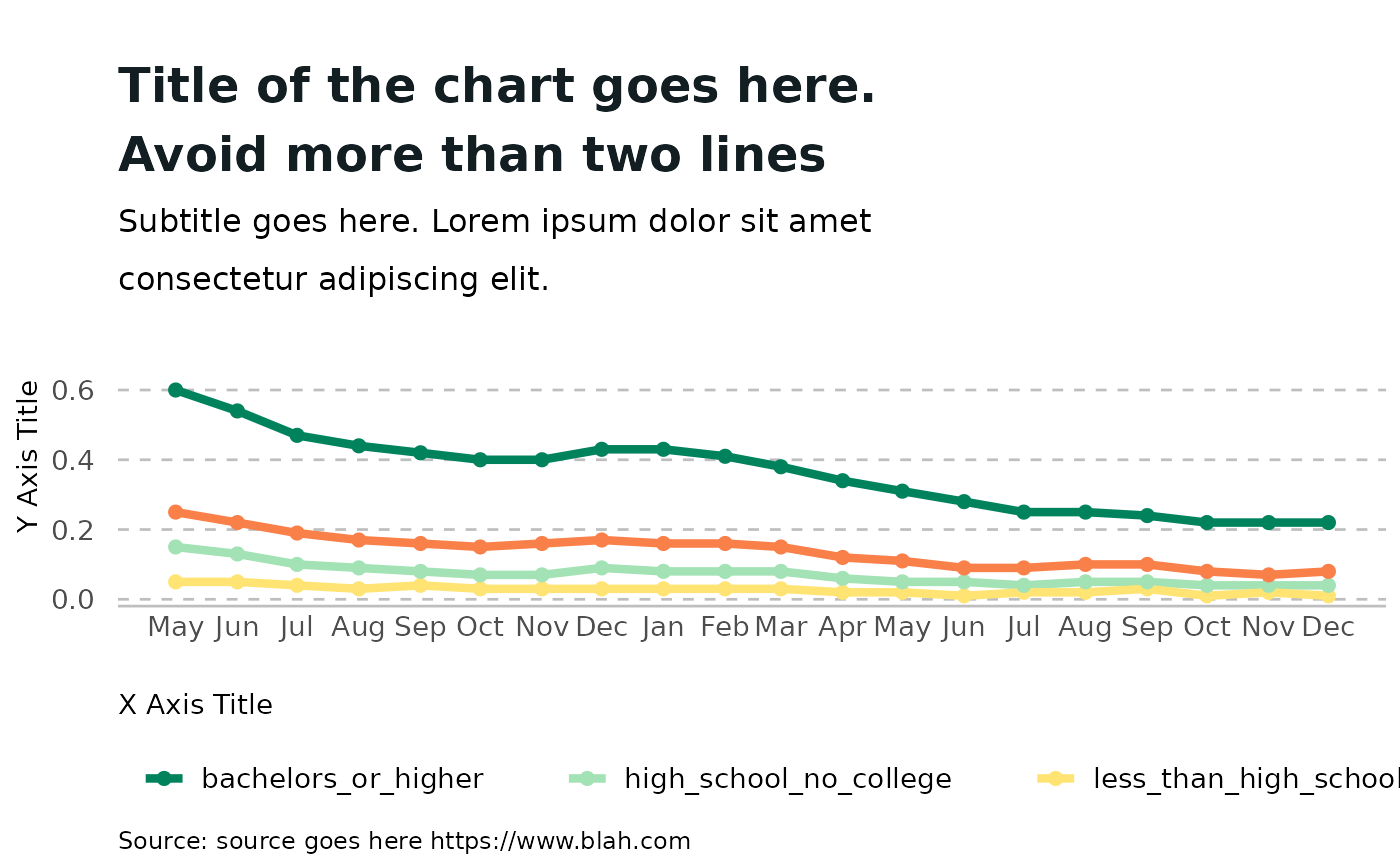
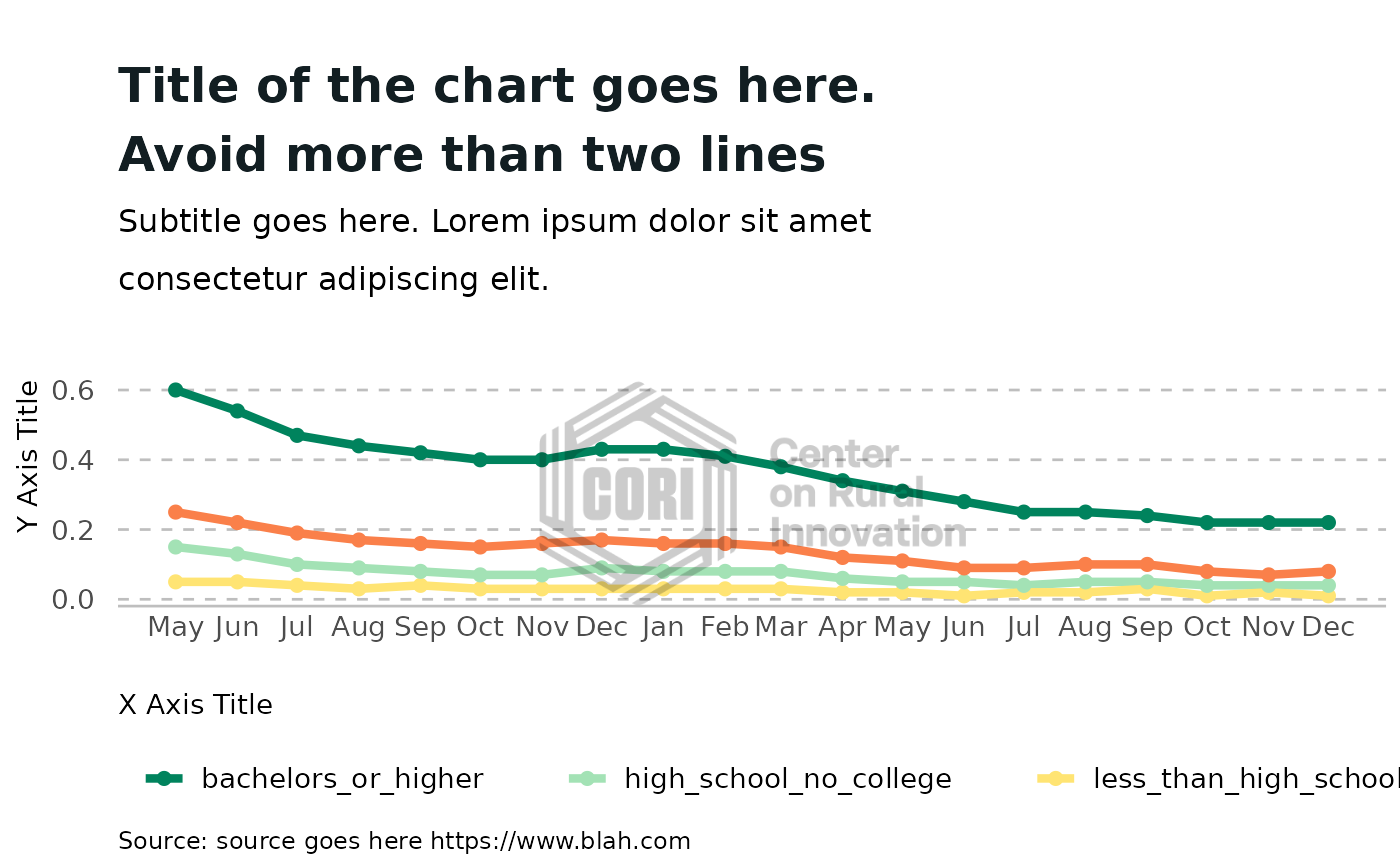
Built site for coriplot: 0.0.0.9000@28e02b3

Changed region(s): [[0.3686, 0.437, 0.7064, 0.6867]]

diff --git a/index.html b/index.html
@@ -80,20 +80,20 @@
 <p>This is a basic example which shows you how to solve a common problem: Dashanh’s workspace</p>
 <div class="sourceCode" id="cb2"><pre class="downlit sourceCode r">
 <code class="sourceCode R"><span class="kw"><a href="https://rdrr.io/r/base/library.html" class="external-link">library</a></span><span class="op">(</span><span class="va"><a href="https://ggplot2.tidyverse.org" class="external-link">ggplot2</a></span><span class="op">)</span>
-<span class="kw"><a href="https://rdrr.io/r/base/library.html" class="external-link">library</a></span><span class="op">(</span><span class="va"><a href="https://tidyverse.tidyverse.org" class="external-link">tidyverse</a></span><span class="op">)</span>
-<span class="co">#&gt; ── Attaching packages ─────────────────────────────────────── tidyverse 1.3.1 ──</span>
-<span class="co">#&gt; ✓ tibble  3.1.6     ✓ dplyr   1.0.8</span>
-<span class="co">#&gt; ✓ tidyr   1.2.0     ✓ stringr 1.4.0</span>
-<span class="co">#&gt; ✓ readr   2.1.2     ✓ forcats 0.5.1</span>
-<span class="co">#&gt; ✓ purrr   0.3.4</span>
-<span class="co">#&gt; ── Conflicts ────────────────────────────────────────── tidyverse_conflicts() ──</span>
-<span class="co">#&gt; x dplyr::filter() masks stats::filter()</span>
-<span class="co">#&gt; x dplyr::lag()    masks stats::lag()</span>
+<span class="kw"><a href="https://rdrr.io/r/base/library.html" class="external-link">library</a></span><span class="op">(</span><span class="va"><a href="https://dplyr.tidyverse.org" class="external-link">dplyr</a></span><span class="op">)</span>
+<span class="co">#&gt; </span>
+<span class="co">#&gt; Attaching package: 'dplyr'</span>
+<span class="co">#&gt; The following objects are masked from 'package:stats':</span>
+<span class="co">#&gt; </span>
+<span class="co">#&gt;     filter, lag</span>
+<span class="co">#&gt; The following objects are masked from 'package:base':</span>
+<span class="co">#&gt; </span>
+<span class="co">#&gt;     intersect, setdiff, setequal, union</span>
 <span class="kw"><a href="https://rdrr.io/r/base/library.html" class="external-link">library</a></span><span class="op">(</span><span class="va"><a href="https://github.com/Dashansh/coriplot" class="external-link">coriplot</a></span><span class="op">)</span>
 
 <span class="fu"><a href="https://ggplot2.tidyverse.org/reference/theme_get.html" class="external-link">theme_set</a></span><span class="op">(</span><span class="fu"><a href="reference/theme_cori.html">theme_cori</a></span><span class="op">(</span><span class="op">)</span><span class="op">)</span>
 <span class="fu"><a href="https://rdrr.io/r/utils/data.html" class="external-link">data</a></span><span class="op">(</span><span class="st">"remote_work_by_ed_level"</span><span class="op">)</span>
-<span class="va">fig</span> <span class="op">&lt;-</span> <span class="va">remote_work_by_ed_level</span> <span class="op">%&gt;%</span>
+<span class="va">fig</span> <span class="op">&lt;-</span> <span class="va">remote_work_by_ed_level</span> <span class="op"><a href="https://magrittr.tidyverse.org/reference/pipe.html" class="external-link">%&gt;%</a></span>
   <span class="fu"><a href="https://ggplot2.tidyverse.org/reference/ggplot.html" class="external-link">ggplot</a></span><span class="op">(</span><span class="fu"><a href="https://ggplot2.tidyverse.org/reference/aes.html" class="external-link">aes</a></span><span class="op">(</span><span class="fu"><a href="https://rdrr.io/r/base/as.Date.html" class="external-link">as.Date</a></span><span class="op">(</span><span class="va">date</span><span class="op">)</span>,
              <span class="va">pct_working_remotely</span>,
              group <span class="op">=</span> <span class="va">education_level</span>,
@@ -104,7 +104,7 @@
   <span class="fu"><a href="https://ggplot2.tidyverse.org/reference/labs.html" class="external-link">labs</a></span><span class="op">(</span>title <span class="op">=</span> <span class="st">"This should not exceed\nMore than two lines"</span>,
        subtitle <span class="op">=</span> <span class="st">"Some random subtitle"</span>,
        caption <span class="op">=</span> <span class="st">"This image is not mine"</span><span class="op">)</span> <span class="op">+</span>
-  <span class="fu"><a href="https://ggplot2.tidyverse.org/reference/scale_date.html" class="external-link">scale_x_date</a></span><span class="op">(</span>date_breaks <span class="op">=</span> <span class="st">"1 month"</span>, date_labels <span class="op">=</span>  <span class="st">"%b %Y"</span><span class="op">)</span> <span class="op">+</span> 
+  <span class="fu"><a href="https://ggplot2.tidyverse.org/reference/scale_date.html" class="external-link">scale_x_date</a></span><span class="op">(</span>date_breaks <span class="op">=</span> <span class="st">"1 month"</span>, date_labels <span class="op">=</span>  <span class="st">"%b"</span><span class="op">)</span> <span class="op">+</span> 
   <span class="fu"><a href="https://ggplot2.tidyverse.org/reference/scale_continuous.html" class="external-link">scale_y_continuous</a></span><span class="op">(</span>expand <span class="op">=</span> <span class="fu"><a href="https://rdrr.io/r/base/c.html" class="external-link">c</a></span><span class="op">(</span><span class="fl">0</span>, <span class="fl">0</span><span class="op">)</span>, limits <span class="op">=</span> <span class="fu"><a href="https://rdrr.io/r/base/c.html" class="external-link">c</a></span><span class="op">(</span><span class="fl">0</span>,<span class="cn">NA</span><span class="op">)</span><span class="op">)</span> <span class="op">+</span>
   <span class="fu"><a href="reference/theme_cori.html">theme_cori</a></span><span class="op">(</span><span class="op">)</span><span class="op">+</span>
   <span class="fu"><a href="reference/scale_x_percent.html">scale_y_percent</a></span><span class="op">(</span><span class="op">)</span>
@@ -113,71 +113,6 @@
 
 <span class="va">fig</span></code></pre></div>
 <p><img src="reference/figures/README-example1-1.png" width="100%"></p>
-<p>abhishek’s workspace</p>
-<div class="sourceCode" id="cb3"><pre class="downlit sourceCode r">
-<code class="sourceCode R"><span class="va">fig</span> <span class="op">&lt;-</span> <span class="va">remote_work_by_ed_level</span> <span class="op">%&gt;%</span>
-  <span class="fu"><a href="https://ggplot2.tidyverse.org/reference/ggplot.html" class="external-link">ggplot</a></span><span class="op">(</span><span class="fu"><a href="https://ggplot2.tidyverse.org/reference/aes.html" class="external-link">aes</a></span><span class="op">(</span><span class="fu"><a href="https://rdrr.io/r/base/as.Date.html" class="external-link">as.Date</a></span><span class="op">(</span><span class="va">date</span><span class="op">)</span>, <span class="va">pct_working_remotely</span>, group <span class="op">=</span> <span class="va">education_level</span>, color <span class="op">=</span> <span class="va">education_level</span><span class="op">)</span><span class="op">)</span> <span class="op">+</span>
-  <span class="fu"><a href="https://ggplot2.tidyverse.org/reference/geom_path.html" class="external-link">geom_line</a></span><span class="op">(</span>lwd <span class="op">=</span> <span class="fl">1.5</span><span class="op">)</span> <span class="op">+</span>
-  <span class="fu"><a href="https://ggplot2.tidyverse.org/reference/labs.html" class="external-link">xlab</a></span><span class="op">(</span><span class="st">""</span><span class="op">)</span> <span class="op">+</span>
-  <span class="fu"><a href="https://ggplot2.tidyverse.org/reference/scale_date.html" class="external-link">scale_x_date</a></span><span class="op">(</span>date_breaks <span class="op">=</span> <span class="st">"1 month"</span>, date_labels <span class="op">=</span>  <span class="st">"%b"</span><span class="op">)</span> <span class="op">+</span> 
-  <span class="fu"><a href="https://ggplot2.tidyverse.org/reference/scale_continuous.html" class="external-link">scale_y_continuous</a></span><span class="op">(</span>expand <span class="op">=</span> <span class="fu"><a href="https://rdrr.io/r/base/c.html" class="external-link">c</a></span><span class="op">(</span><span class="fl">0</span>, <span class="fl">0</span><span class="op">)</span><span class="op">)</span> <span class="op">+</span>
-  <span class="fu"><a href="https://ggplot2.tidyverse.org/reference/geom_point.html" class="external-link">geom_point</a></span><span class="op">(</span>size <span class="op">=</span> <span class="fl">2</span><span class="op">)</span><span class="op">+</span>
-  <span class="fu"><a href="https://ggplot2.tidyverse.org/reference/labs.html" class="external-link">ggtitle</a></span><span class="op">(</span><span class="st">"Line Chart - straight lines"</span><span class="op">)</span> <span class="op">+</span>
-  <span class="fu"><a href="https://ggplot2.tidyverse.org/reference/labs.html" class="external-link">labs</a></span><span class="op">(</span>subtitle <span class="op">=</span> <span class="st">"Multiple Colors"</span><span class="op">)</span><span class="op">+</span>
-  <span class="fu"><a href="reference/scale_color_cori.html">scale_color_cori</a></span><span class="op">(</span><span class="op">)</span> 
-
-<span class="fu">flush_ticks</span><span class="op">(</span><span class="va">fig</span><span class="op">)</span><span class="co">#fig </span>
-<span class="co">#&gt; theme(axis.text.x=element_text(hjust=c(0, rep(0.5, 18), 1))) +</span>
-<span class="co">#&gt; theme(axis.text.y=element_text(vjust=c(0, rep(0.5, 3), 1)))</span></code></pre></div>
-<p><img src="reference/figures/README-example2-1.png" width="100%"></p>
-<div class="sourceCode" id="cb4"><pre class="downlit sourceCode r">
-<code class="sourceCode R"><span class="va">twoColDf</span><span class="op">&lt;-</span><span class="va">time_series_sample_data</span><span class="op">[</span>,<span class="fu"><a href="https://rdrr.io/r/base/c.html" class="external-link">c</a></span><span class="op">(</span><span class="st">"date"</span>,<span class="st">"less_than_high_school"</span>,<span class="st">"high_school_no_college"</span><span class="op">)</span><span class="op">]</span>
-<span class="fu"><a href="https://rdrr.io/r/base/colnames.html" class="external-link">colnames</a></span><span class="op">(</span><span class="va">twoColDf</span><span class="op">)</span><span class="op">&lt;-</span><span class="fu"><a href="https://rdrr.io/r/base/c.html" class="external-link">c</a></span><span class="op">(</span><span class="st">"date"</span>,<span class="st">"urban"</span>,<span class="st">"rural"</span><span class="op">)</span>
-<span class="va">df2col</span><span class="op">&lt;-</span> <span class="fu">tidyr</span><span class="fu">::</span><span class="fu"><a href="https://tidyr.tidyverse.org/reference/pivot_longer.html" class="external-link">pivot_longer</a></span><span class="op">(</span>
-  <span class="va">twoColDf</span>,
-  cols <span class="op">=</span> <span class="op">!</span><span class="va">date</span>,
-  names_to <span class="op">=</span> <span class="st">"education_level"</span>,
-  values_to <span class="op">=</span> <span class="st">"pct_working_remotely"</span>
-<span class="op">)</span>
-
-<span class="va">fig</span> <span class="op">&lt;-</span> <span class="va">df2col</span> <span class="op">%&gt;%</span>
-  <span class="fu"><a href="https://ggplot2.tidyverse.org/reference/ggplot.html" class="external-link">ggplot</a></span><span class="op">(</span><span class="fu"><a href="https://ggplot2.tidyverse.org/reference/aes.html" class="external-link">aes</a></span><span class="op">(</span><span class="fu"><a href="https://rdrr.io/r/base/as.Date.html" class="external-link">as.Date</a></span><span class="op">(</span><span class="va">date</span><span class="op">)</span>, <span class="va">pct_working_remotely</span>, group <span class="op">=</span> <span class="va">education_level</span>, color <span class="op">=</span> <span class="va">education_level</span><span class="op">)</span><span class="op">)</span> <span class="op">+</span>
-  <span class="fu"><a href="https://ggplot2.tidyverse.org/reference/geom_path.html" class="external-link">geom_line</a></span><span class="op">(</span>lwd <span class="op">=</span> <span class="fl">1.5</span><span class="op">)</span> <span class="op">+</span>
-  <span class="fu"><a href="https://ggplot2.tidyverse.org/reference/labs.html" class="external-link">xlab</a></span><span class="op">(</span><span class="st">""</span><span class="op">)</span> <span class="op">+</span>
-  <span class="fu"><a href="https://ggplot2.tidyverse.org/reference/scale_date.html" class="external-link">scale_x_date</a></span><span class="op">(</span>date_breaks <span class="op">=</span> <span class="st">"1 month"</span>, date_labels <span class="op">=</span>  <span class="st">"%b"</span><span class="op">)</span> <span class="op">+</span> 
-  <span class="fu"><a href="https://ggplot2.tidyverse.org/reference/scale_continuous.html" class="external-link">scale_y_continuous</a></span><span class="op">(</span>expand <span class="op">=</span> <span class="fu"><a href="https://rdrr.io/r/base/c.html" class="external-link">c</a></span><span class="op">(</span><span class="fl">0</span>, <span class="fl">0</span><span class="op">)</span><span class="op">)</span> <span class="op">+</span>
-  <span class="fu"><a href="https://ggplot2.tidyverse.org/reference/geom_point.html" class="external-link">geom_point</a></span><span class="op">(</span>size <span class="op">=</span> <span class="fl">2</span><span class="op">)</span><span class="op">+</span>
-  <span class="fu"><a href="https://ggplot2.tidyverse.org/reference/labs.html" class="external-link">ggtitle</a></span><span class="op">(</span><span class="st">"Line Chart - straight lines"</span><span class="op">)</span> <span class="op">+</span>
-  <span class="fu"><a href="https://ggplot2.tidyverse.org/reference/labs.html" class="external-link">labs</a></span><span class="op">(</span>subtitle <span class="op">=</span> <span class="st">"Only 2 Columns"</span><span class="op">)</span><span class="op">+</span>
-  <span class="fu"><a href="https://ggplot2.tidyverse.org/reference/labs.html" class="external-link">ylab</a></span><span class="op">(</span><span class="st">"Percentage Working Remotely"</span><span class="op">)</span><span class="op">+</span>
-  <span class="fu"><a href="reference/scale_color_cori.html">scale_color_cori</a></span><span class="op">(</span><span class="va">cori_primary</span><span class="op">)</span> 
-<span class="va">fig</span> </code></pre></div>
-<p><img src="reference/figures/README-example3-1.png" width="100%"></p>
-<p>This is a basic example which shows you how to make curved lines:</p>
-<div class="sourceCode" id="cb5"><pre class="downlit sourceCode r">
-<code class="sourceCode R"><span class="kw"><a href="https://rdrr.io/r/base/library.html" class="external-link">library</a></span><span class="op">(</span><span class="va"><a href="https://ggplot2.tidyverse.org" class="external-link">ggplot2</a></span><span class="op">)</span>
-<span class="kw"><a href="https://rdrr.io/r/base/library.html" class="external-link">library</a></span><span class="op">(</span><span class="va"><a href="https://tidyverse.tidyverse.org" class="external-link">tidyverse</a></span><span class="op">)</span>
-
-<span class="va">fig</span> <span class="op">&lt;-</span> <span class="va">remote_work_by_ed_level</span><span class="op">[</span><span class="fl">1</span><span class="op">:</span><span class="fl">20</span>,<span class="op">]</span> <span class="op">%&gt;%</span>
-  <span class="fu"><a href="https://ggplot2.tidyverse.org/reference/ggplot.html" class="external-link">ggplot</a></span><span class="op">(</span><span class="fu"><a href="https://ggplot2.tidyverse.org/reference/aes.html" class="external-link">aes</a></span><span class="op">(</span><span class="fu"><a href="https://rdrr.io/r/base/as.Date.html" class="external-link">as.Date</a></span><span class="op">(</span><span class="va">date</span><span class="op">)</span>,
-             <span class="va">pct_working_remotely</span>,
-             group <span class="op">=</span> <span class="va">education_level</span>,
-             color <span class="op">=</span> <span class="va">education_level</span><span class="op">)</span><span class="op">)</span> <span class="op">+</span>
-  <span class="fu"><a href="https://ggplot2.tidyverse.org/reference/geom_smooth.html" class="external-link">geom_smooth</a></span><span class="op">(</span>method <span class="op">=</span> <span class="st">'loess'</span>,
-              linetype <span class="op">=</span> <span class="fl">1</span>,
-              size <span class="op">=</span> <span class="fl">1</span>,
-              lwd <span class="op">=</span> <span class="fl">1.5</span>,
-              se<span class="op">=</span> <span class="cn">FALSE</span><span class="op">)</span> <span class="op">+</span>
-  <span class="fu"><a href="https://ggplot2.tidyverse.org/reference/labs.html" class="external-link">xlab</a></span><span class="op">(</span><span class="st">""</span><span class="op">)</span> <span class="op">+</span>
-  <span class="fu"><a href="https://ggplot2.tidyverse.org/reference/scale_date.html" class="external-link">scale_x_date</a></span><span class="op">(</span>date_breaks <span class="op">=</span> <span class="st">"1 month"</span>, date_labels <span class="op">=</span>  <span class="st">"%b"</span><span class="op">)</span> <span class="op">+</span> 
-  <span class="fu"><a href="https://ggplot2.tidyverse.org/reference/scale_continuous.html" class="external-link">scale_y_continuous</a></span><span class="op">(</span>expand <span class="op">=</span> <span class="fu"><a href="https://rdrr.io/r/base/c.html" class="external-link">c</a></span><span class="op">(</span><span class="fl">0</span>, <span class="fl">0</span><span class="op">)</span><span class="op">)</span> <span class="op">+</span>
-  <span class="fu"><a href="https://ggplot2.tidyverse.org/reference/geom_point.html" class="external-link">geom_point</a></span><span class="op">(</span>size <span class="op">=</span> <span class="fl">2</span><span class="op">)</span><span class="op">+</span>
-  <span class="fu"><a href="https://ggplot2.tidyverse.org/reference/labs.html" class="external-link">ggtitle</a></span><span class="op">(</span><span class="st">"Line Chart - Curved lines"</span><span class="op">)</span><span class="op">+</span>
-  <span class="fu"><a href="https://ggplot2.tidyverse.org/reference/labs.html" class="external-link">labs</a></span><span class="op">(</span>subtitle <span class="op">=</span> <span class="st">"Multiple Colors"</span><span class="op">)</span><span class="op">+</span>
-  <span class="fu"><a href="reference/scale_color_cori.html">scale_color_cori</a></span><span class="op">(</span><span class="va">cori_primary</span><span class="op">)</span> 
-<span class="va">fig</span> 
-<span class="co">#&gt; `geom_smooth()` using formula 'y ~ x'</span></code></pre></div>
-<p><img src="reference/figures/README-example4-1.png" width="100%"></p>
 </div>
 </div>
   </main><aside class="col-md-3"><div class="links">

diff --git a/reference/watermark.html b/reference/watermark.html
@@ -1,0 +1,85 @@
+<!DOCTYPE html>
+<!-- Generated by pkgdown: do not edit by hand --><html lang="en"><head><meta http-equiv="Content-Type" content="text/html; charset=UTF-8"><meta charset="utf-8"><meta http-equiv="X-UA-Compatible" content="IE=edge"><meta name="viewport" content="width=device-width, initial-scale=1, shrink-to-fit=no"><meta name="description" content="This is a description"><title>Watermark
+Cori color scales — watermark • coriplot</title><script src="../deps/jquery-3.6.0/jquery-3.6.0.min.js"></script><meta name="viewport" content="width=device-width, initial-scale=1, shrink-to-fit=no"><link href="../deps/bootstrap-5.1.0/bootstrap.min.css" rel="stylesheet"><script src="../deps/bootstrap-5.1.0/bootstrap.bundle.min.js"></script><!-- Font Awesome icons --><link rel="stylesheet" href="https://cdnjs.cloudflare.com/ajax/libs/font-awesome/5.12.1/css/all.min.css" integrity="sha256-mmgLkCYLUQbXn0B1SRqzHar6dCnv9oZFPEC1g1cwlkk=" crossorigin="anonymous"><link rel="stylesheet" href="https://cdnjs.cloudflare.com/ajax/libs/font-awesome/5.12.1/css/v4-shims.min.css" integrity="sha256-wZjR52fzng1pJHwx4aV2AO3yyTOXrcDW7jBpJtTwVxw=" crossorigin="anonymous"><!-- bootstrap-toc --><script src="https://cdn.rawgit.com/afeld/bootstrap-toc/v1.0.1/dist/bootstrap-toc.min.js"></script><!-- headroom.js --><script src="https://cdnjs.cloudflare.com/ajax/libs/headroom/0.11.0/headroom.min.js" integrity="sha256-AsUX4SJE1+yuDu5+mAVzJbuYNPHj/WroHuZ8Ir/CkE0=" crossorigin="anonymous"></script><script src="https://cdnjs.cloudflare.com/ajax/libs/headroom/0.11.0/jQuery.headroom.min.js" integrity="sha256-ZX/yNShbjqsohH1k95liqY9Gd8uOiE1S4vZc+9KQ1K4=" crossorigin="anonymous"></script><!-- clipboard.js --><script src="https://cdnjs.cloudflare.com/ajax/libs/clipboard.js/2.0.6/clipboard.min.js" integrity="sha256-inc5kl9MA1hkeYUt+EC3BhlIgyp/2jDIyBLS6k3UxPI=" crossorigin="anonymous"></script><!-- search --><script src="https://cdnjs.cloudflare.com/ajax/libs/fuse.js/6.4.6/fuse.js" integrity="sha512-zv6Ywkjyktsohkbp9bb45V6tEMoWhzFzXis+LrMehmJZZSys19Yxf1dopHx7WzIKxr5tK2dVcYmaCk2uqdjF4A==" crossorigin="anonymous"></script><script src="https://cdnjs.cloudflare.com/ajax/libs/autocomplete.js/0.38.0/autocomplete.jquery.min.js" integrity="sha512-GU9ayf+66Xx2TmpxqJpliWbT5PiGYxpaG8rfnBEk1LL8l1KGkRShhngwdXK1UgqhAzWpZHSiYPc09/NwDQIGyg==" crossorigin="anonymous"></script><script src="https://cdnjs.cloudflare.com/ajax/libs/mark.js/8.11.1/mark.min.js" integrity="sha512-5CYOlHXGh6QpOFA/TeTylKLWfB3ftPsde7AnmhuitiTX4K5SqCLBeKro6sPS8ilsz1Q4NRx3v8Ko2IBiszzdww==" crossorigin="anonymous"></script><!-- pkgdown --><script src="../pkgdown.js"></script><meta property="og:title" content="Watermark
+Cori color scales — watermark"><meta property="og:description" content="This is a description"><!-- mathjax --><script src="https://cdnjs.cloudflare.com/ajax/libs/mathjax/2.7.5/MathJax.js" integrity="sha256-nvJJv9wWKEm88qvoQl9ekL2J+k/RWIsaSScxxlsrv8k=" crossorigin="anonymous"></script><script src="https://cdnjs.cloudflare.com/ajax/libs/mathjax/2.7.5/config/TeX-AMS-MML_HTMLorMML.js" integrity="sha256-84DKXVJXs0/F8OTMzX4UR909+jtl4G7SPypPavF+GfA=" crossorigin="anonymous"></script><!--[if lt IE 9]>
+<script src="https://oss.maxcdn.com/html5shiv/3.7.3/html5shiv.min.js"></script>
+<script src="https://oss.maxcdn.com/respond/1.4.2/respond.min.js"></script>
+<![endif]--></head><body>
+    <a href="#main" class="visually-hidden-focusable">Skip to contents</a>
+    
+
+    <nav class="navbar fixed-top navbar-light navbar-expand-lg bg-light"><div class="container">
+    
+    <a class="navbar-brand me-2" href="../index.html">coriplot</a>
+
+    <small class="nav-text text-muted me-auto" data-bs-toggle="tooltip" data-bs-placement="bottom" title="">0.0.0.9000</small>
+
+    
+    <button class="navbar-toggler" type="button" data-bs-toggle="collapse" data-bs-target="#navbar" aria-controls="navbar" aria-expanded="false" aria-label="Toggle navigation">
+      <span class="navbar-toggler-icon"></span>
+    </button>
+
+    <div id="navbar" class="collapse navbar-collapse ms-3">
+      <ul class="navbar-nav me-auto"><li class="nav-item">
+  <a class="nav-link" href="../articles/coriplot.html">Get started</a>
+</li>
+<li class="active nav-item">
+  <a class="nav-link" href="../reference/index.html">Reference</a>
+</li>
+      </ul><form class="form-inline my-2 my-lg-0" role="search">
+        <input type="search" class="form-control me-sm-2" aria-label="Toggle navigation" name="search-input" data-search-index="../search.json" id="search-input" placeholder="Search for" autocomplete="off"></form>
+
+      <ul class="navbar-nav"><li class="nav-item">
+  <a class="external-link nav-link" href="https://github.com/Dashansh/coriplot/" aria-label="github">
+    <span class="fab fa fab fa-github fa-lg"></span>
+     
+  </a>
+</li>
+      </ul></div>
+
+    
+  </div>
+</nav><div class="container template-reference-topic">
+<div class="row">
+  <main id="main" class="col-md-9"><div class="page-header">
+      <img src="" class="logo" alt=""><h1>Watermark
+Cori color scales</h1>
+      <small class="dont-index">Source: <a href="https://github.com/Dashansh/coriplot/blob/HEAD/R/watermark.R" class="external-link"><code>R/watermark.R</code></a></small>
+      <div class="d-none name"><code>watermark.Rd</code></div>
+    </div>
+
+    <div class="ref-description section level2">
+    <p>This is a description</p>
+    </div>
+
+    <div class="section level2">
+    <h2 id="ref-usage">Usage<a class="anchor" aria-label="anchor" href="#ref-usage"></a></h2>
+    <div class="sourceCode"><pre class="sourceCode r"><code><span class="fu">watermark</span><span class="op">(</span>alpha <span class="op">=</span> <span class="fl">0.2</span><span class="op">)</span></code></pre></div>
+    </div>
+
+    <div class="section level2">
+    <h2 id="arguments">Arguments<a class="anchor" aria-label="anchor" href="#arguments"></a></h2>
+    <dl><dt>alpha</dt>
+<dd><p>Pass the opacity value for the watermark between 0 - 1 (Default: 0.5)</p></dd>
+</dl></div>
+
+  </main><aside class="col-md-3"><nav id="toc"><h2>On this page</h2>
+    </nav></aside></div>
+
+
+    <footer><div class="pkgdown-footer-left">
+  <p></p><p>Developed by Dashansh Prajapati.</p>
+</div>
+
+<div class="pkgdown-footer-right">
+  <p></p><p>Site built with <a href="https://pkgdown.r-lib.org/" class="external-link">pkgdown</a> 2.0.2.</p>
+</div>
+
+    </footer></div>
+
+  
+
+  
+
+  </body></html>
+

diff --git a/articles/coriplot.html b/articles/coriplot.html
@@ -108,10 +108,11 @@
     <span class="fu"><a href="https://ggplot2.tidyverse.org/reference/labs.html" class="external-link">xlab</a></span><span class="op">(</span><span class="st">"X Axis Title"</span><span class="op">)</span> <span class="op">+</span>
     <span class="fu"><a href="https://ggplot2.tidyverse.org/reference/labs.html" class="external-link">ylab</a></span><span class="op">(</span><span class="st">"Y Axis Title"</span><span class="op">)</span> <span class="op">+</span>
     <span class="fu"><a href="../reference/scale_color_cori.html">scale_color_cori</a></span><span class="op">(</span><span class="op">)</span> <span class="op">+</span>
-    <span class="fu"><a href="../reference/theme_cori.html">theme_cori</a></span><span class="op">(</span><span class="op">)</span> <span class="op">-&gt;</span> <span class="va">fig</span>
+    <span class="fu"><a href="../reference/theme_cori.html">theme_cori</a></span><span class="op">(</span><span class="op">)</span> <span class="op">+</span>
+    <span class="fu"><a href="../reference/watermark.html">watermark</a></span><span class="op">(</span><span class="op">)</span><span class="op">-&gt;</span> <span class="va">fig</span>
 
 <span class="va">fig</span></code></pre></div>
-<p><img src="coriplot_files/figure-html/example2-1.png" width="700"></p>
+<p><img src="coriplot_files/figure-html/example2-1.png" width="100%"></p>
 <div class="sourceCode" id="cb2"><pre class="downlit sourceCode r">
 <code class="sourceCode R"><span class="fu"><a href="https://rdrr.io/r/utils/data.html" class="external-link">data</a></span><span class="op">(</span><span class="st">"time_series_sample_data"</span><span class="op">)</span>
 <span class="va">twoColDf</span><span class="op">&lt;-</span><span class="va">time_series_sample_data</span><span class="op">[</span>,<span class="fu"><a href="https://rdrr.io/r/base/c.html" class="external-link">c</a></span><span class="op">(</span><span class="st">"date"</span>,<span class="st">"less_than_high_school"</span>,<span class="st">"high_school_no_college"</span><span class="op">)</span><span class="op">]</span>
@@ -135,7 +136,7 @@
   <span class="fu"><a href="https://ggplot2.tidyverse.org/reference/labs.html" class="external-link">ylab</a></span><span class="op">(</span><span class="st">"Percentage Working Remotely"</span><span class="op">)</span><span class="op">+</span>
   <span class="fu"><a href="../reference/scale_color_cori.html">scale_color_cori</a></span><span class="op">(</span><span class="va">cori_primary</span><span class="op">)</span> 
 <span class="va">fig</span> </code></pre></div>
-<p><img src="coriplot_files/figure-html/example3-1.png" width="700"></p>
+<p><img src="coriplot_files/figure-html/example3-1.png" width="100%"></p>
 <p>This is a basic example which shows you how to make curved lines:</p>
 <div class="sourceCode" id="cb3"><pre class="downlit sourceCode r">
 <code class="sourceCode R">
@@ -159,7 +160,7 @@
 
 <span class="va">fig</span>
 <span class="co">#&gt; `geom_smooth()` using formula 'y ~ x'</span></code></pre></div>
-<p><img src="coriplot_files/figure-html/example4-1.png" width="700"></p>
+<p><img src="coriplot_files/figure-html/example4-1.png" width="100%"></p>
 <div class="sourceCode" id="cb4"><pre class="downlit sourceCode r">
 <code class="sourceCode R">
 <span class="fu">ggplot2</span><span class="fu">::</span><span class="fu"><a href="https://ggplot2.tidyverse.org/reference/update_defaults.html" class="external-link">update_geom_defaults</a></span><span class="op">(</span><span class="st">"line"</span>, <span class="fu"><a href="https://rdrr.io/r/base/list.html" class="external-link">list</a></span><span class="op">(</span>color <span class="op">=</span> <span class="st">"#00835D"</span>, size <span class="op">=</span> <span class="fl">1</span><span class="op">)</span><span class="op">)</span>
@@ -182,8 +183,10 @@
   <span class="fu"><a href="../reference/theme_cori.html">theme_cori</a></span><span class="op">(</span><span class="op">)</span><span class="op">+</span>
   <span class="fu"><a href="../reference/scale_color_cori.html">scale_color_cori</a></span><span class="op">(</span><span class="op">)</span>
 
-<span class="fu"><a href="../reference/threshold.html">threshold</a></span><span class="op">(</span><span class="va">f</span>,<span class="fl">5</span>, axis<span class="op">=</span><span class="st">"y"</span>, label<span class="op">=</span><span class="st">"\nthreshold"</span>,shift<span class="op">=</span><span class="fl">0.4</span><span class="op">)</span></code></pre></div>
-<p><img src="coriplot_files/figure-html/example6-1.png" width="700"></p>
+<span class="fu"><a href="../reference/threshold.html">threshold</a></span><span class="op">(</span><span class="va">f</span>,<span class="fl">3.5</span>, axis<span class="op">=</span><span class="st">"x"</span>, label<span class="op">=</span><span class="st">"\nthreshold"</span>,shift<span class="op">=</span><span class="fl">0.15</span><span class="op">)</span>
+<span class="co">#&gt; 3.5 x </span>
+<span class="co">#&gt; threshold</span></code></pre></div>
+<p><img src="coriplot_files/figure-html/example6-1.png" width="100%"></p>
 <div class="sourceCode" id="cb5"><pre class="downlit sourceCode r">
 <code class="sourceCode R">  <span class="co">#annotate(geom = 'text',x=4.5+shift,y=Inf, label="label", color="#26535C", vjust="top")+</span>
   <span class="co">#threshold(axis="y",6, label="\nthreshold")+</span>
@@ -220,7 +223,7 @@
   <span class="fu"><a href="../reference/theme_cori.html">theme_cori</a></span><span class="op">(</span><span class="op">)</span>
   
 <span class="va">fig</span> </code></pre></div>
-<p><img src="coriplot_files/figure-html/example5-1.png" width="700"></p>
+<p><img src="coriplot_files/figure-html/example5-1.png" width="100%"></p>
 </div>
   </main>
 </div>

diff --git a/reference/index.html b/reference/index.html
@@ -114,6 +114,12 @@
           <code><a href="urbn_palettes.html">cori_primary</a></code> <code><a href="urbn_palettes.html">cori_orange</a></code> <code><a href="urbn_palettes.html">cori_blue</a></code> <code><a href="urbn_palettes.html">cori_purple</a></code> 
         </dt>
         <dd>Urban Institute palettes</dd>
+      </dl><dl><dt>
+          
+          <code><a href="watermark.html">watermark()</a></code> 
+        </dt>
+        <dd>Watermark
+Cori color scales</dd>
       </dl></div>
   </main></div>
 
